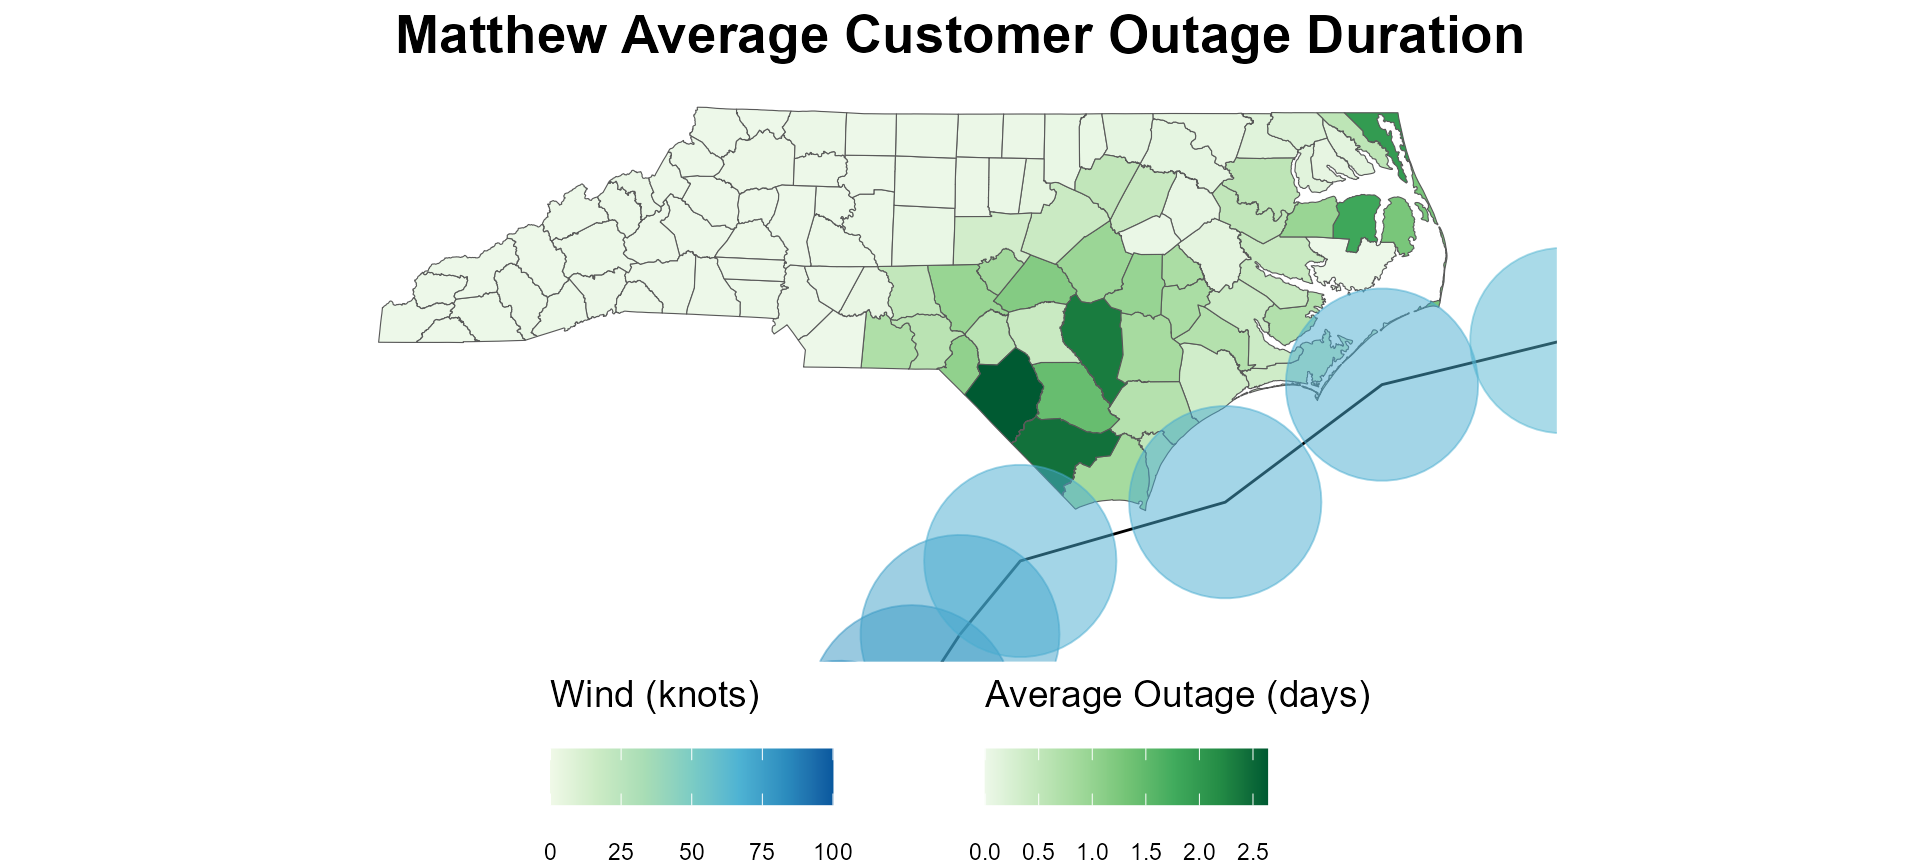
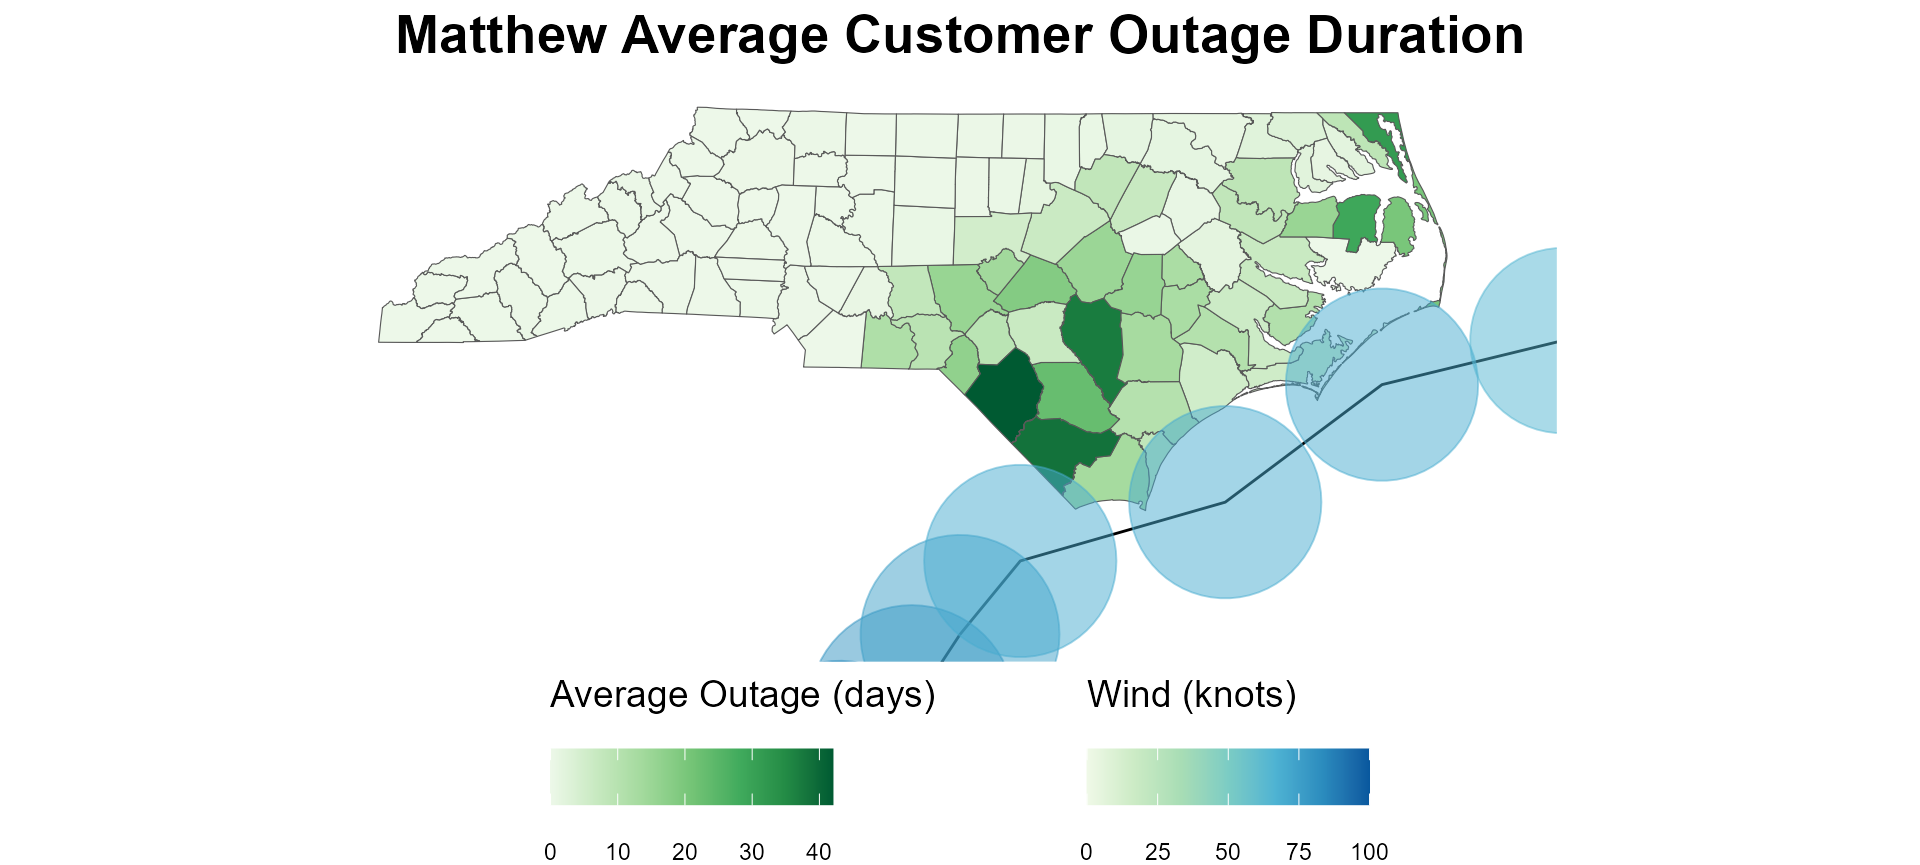
change to yearly EIA customer estimate

Changed region(s): [[0.2812, 0.7803, 0.7188, 0.9364], [0.5, 0.9676, 0.7188, 0.9988], [0.3125, 0.9676, 0.4375, 0.9988]]

diff --git a/docs/articles/outage_intro_measures.html b/docs/articles/outage_intro_measures.html
@@ -110,40 +110,40 @@ Min. :0.00000
 <td style="text-align:left;">
 </td>
 <td style="text-align:left;">
-1st Qu.:0.02149
+1st Qu.:0.02348
 </td>
 <td style="text-align:left;">
-1st Qu.:0.02333
-</td>
-</tr>
-<tr>
-<td style="text-align:left;">
-</td>
-<td style="text-align:left;">
-Median :0.05659
-</td>
-<td style="text-align:left;">
-Median :0.07439
+1st Qu.:0.02477
 </td>
 </tr>
 <tr>
 <td style="text-align:left;">
 </td>
 <td style="text-align:left;">
-Mean :0.20033
+Median :0.06181
 </td>
 <td style="text-align:left;">
-Mean :0.21369
+Median :0.07900
 </td>
 </tr>
 <tr>
 <td style="text-align:left;">
 </td>
 <td style="text-align:left;">
-3rd Qu.:0.28731
+Mean :0.21477
 </td>
 <td style="text-align:left;">
-3rd Qu.:0.36471
+Mean :0.22531
+</td>
+</tr>
+<tr>
+<td style="text-align:left;">
+</td>
+<td style="text-align:left;">
+3rd Qu.:0.31383
+</td>
+<td style="text-align:left;">
+3rd Qu.:0.38730
 </td>
 </tr>
 <tr>
@@ -177,60 +177,60 @@ Matthew
 <td style="text-align:left;">
 </td>
 <td style="text-align:left;">
-Min. :0.000000
+Min. : 0.0000
 </td>
 <td style="text-align:left;">
-Min. :0.000000
-</td>
-</tr>
-<tr>
-<td style="text-align:left;">
-</td>
-<td style="text-align:left;">
-1st Qu.:0.007331
-</td>
-<td style="text-align:left;">
-1st Qu.:0.005376
+Min. : 0.00000
 </td>
 </tr>
 <tr>
 <td style="text-align:left;">
 </td>
 <td style="text-align:left;">
-Median :0.016931
+1st Qu.: 0.1202
 </td>
 <td style="text-align:left;">
-Median :0.047213
-</td>
-</tr>
-<tr>
-<td style="text-align:left;">
-</td>
-<td style="text-align:left;">
-Mean :0.542860
-</td>
-<td style="text-align:left;">
-Mean :0.357971
+1st Qu.: 0.08567
 </td>
 </tr>
 <tr>
 <td style="text-align:left;">
 </td>
 <td style="text-align:left;">
-3rd Qu.:0.426963
+Median : 0.2775
 </td>
 <td style="text-align:left;">
-3rd Qu.:0.548685
+Median : 0.75240
 </td>
 </tr>
 <tr>
 <td style="text-align:left;">
 </td>
 <td style="text-align:left;">
-Max. :5.284240
+Mean : 8.8750
 </td>
 <td style="text-align:left;">
-Max. :2.636751
+Mean : 5.70365
+</td>
+</tr>
+<tr>
+<td style="text-align:left;">
+</td>
+<td style="text-align:left;">
+3rd Qu.: 6.9986
+</td>
+<td style="text-align:left;">
+3rd Qu.: 8.74389
+</td>
+</tr>
+<tr>
+<td style="text-align:left;">
+</td>
+<td style="text-align:left;">
+Max. :85.4107
+</td>
+<td style="text-align:left;">
+Max. :42.01953
 </td>
 </tr>
 </tbody>

diff --git a/docs/reference/get_eaglei.html b/docs/reference/get_eaglei.html
@@ -81,10 +81,13 @@ by county</p>
 
 
 <p>Customer estimates are generated by adding the number of households
-(ACS centered on year of storm) and number of establishments (Census SUBI
+(<a href="https://censusreporter.org/tables/B11001/" class="external-link">ACS</a> centered on year of
+storm) and number of establishments
+(<a href="https://www.census.gov/programs-surveys/susb/data/tables.html" class="external-link">Census SUSB</a>
 for year of storm) per county, getting the percentage of households and
 establishments per county by state, and multiplying the percentage by the
-total number of customers in a county (EIA average over year of storm)</p>
+total number of customers in a state (<a href="https://www.eia.gov/electricity/data/browser/#/topic/56?agg=0,1&amp;geo=g&amp;endsec=vg&amp;linechart=ELEC.CUSTOMERS.US-ALL.A~ELEC.CUSTOMERS.US-RES.A~ELEC.CUSTOMERS.US-COM.A~ELEC.CUSTOMERS.US-IND.A&amp;columnchart=ELEC.CUSTOMERS.US-ALL.A~ELEC.CUSTOMERS.US-RES.A~ELEC.CUSTOMERS.US-COM.A~ELEC.CUSTOMERS.US-IND.A&amp;map=ELEC.CUSTOMERS.US-ALL.A&amp;freq=A&amp;start=2008&amp;end=2023&amp;ctype=map&amp;ltype=pin&amp;rtype=s&amp;maptype=0&amp;rse=0&amp;pin=" class="external-link">EIA</a>
+year of storm)</p>
 </div>
 
     </div>
